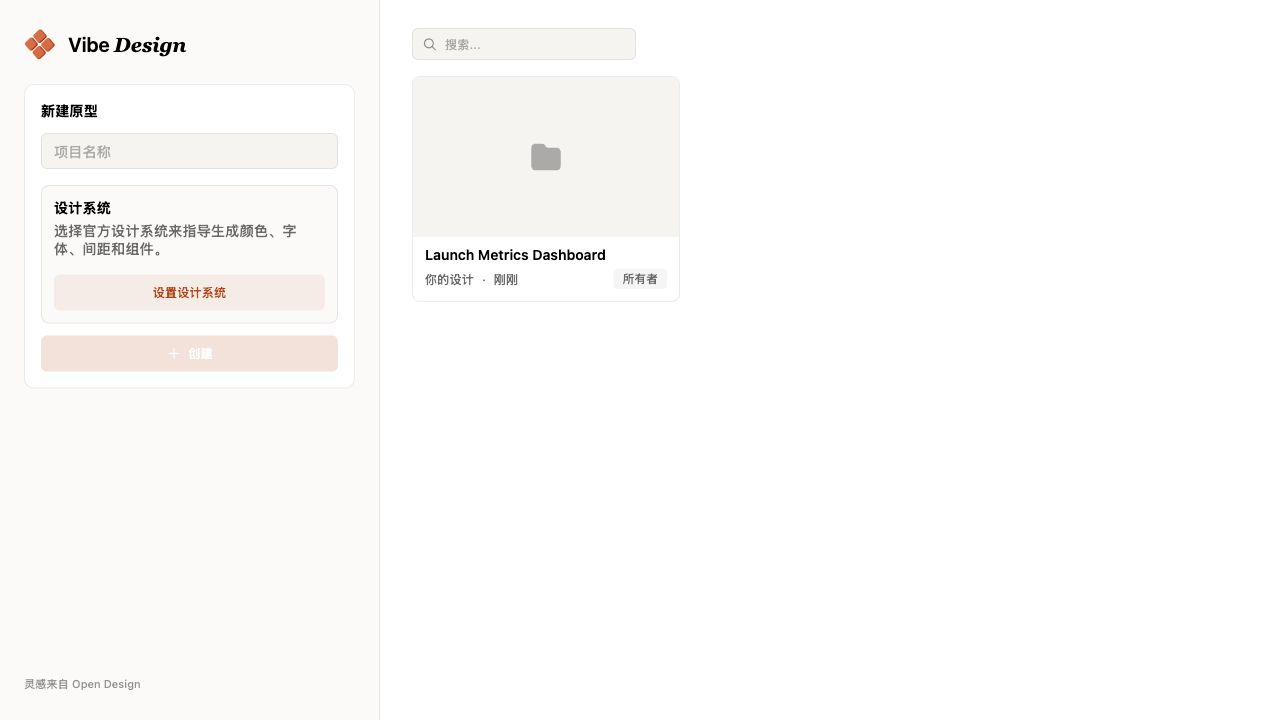
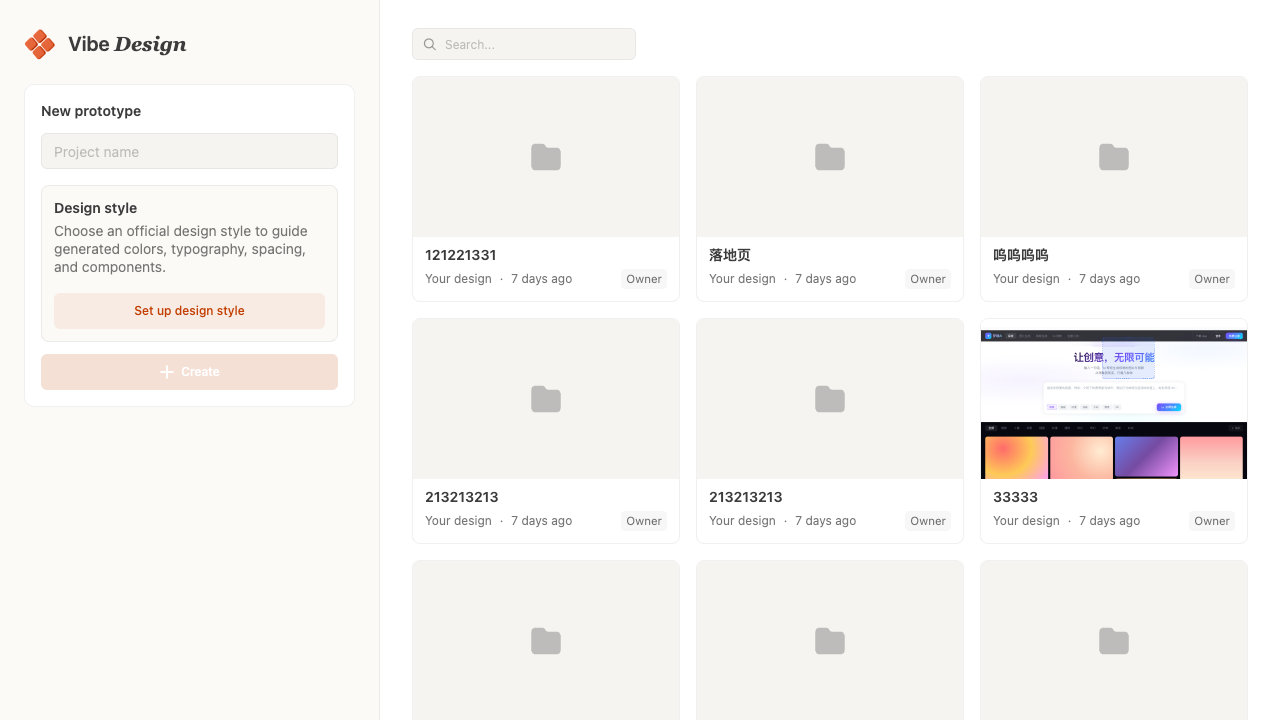
docs: rewrite README around features and refresh screenshots
Restructure EN and zh-CN READMEs with a benefit-led intro, "Why",
"Features", "How it works", and "For developers" sections; update
dashboard and project-editor screenshots.

diff --git a/README.md b/README.md
@@ -7,60 +7,83 @@
 
 ![Vibe Design dashboard](docs/screenshots/vibe-design-dashboard.png)
 
-Vibe Design is an AI-assisted design prototyping workspace for Tutti. It connects prompt-driven generation, design-system guidance, project file previews, canvas comments, and local agent execution so product, design, and engineering work can iterate around the same runnable prototype.
+> **Turn a prompt into a real, runnable prototype — then review, annotate, and refine it with AI in one workspace.**
 
-## Product Positioning
+Vibe Design is an AI-assisted design prototyping workspace. Start from a single prompt, ground the generation in a real design system, preview the live result on an interactive canvas, mark up exactly what needs to change, and send that visual feedback straight back to a local coding agent (Codex or Claude Code). Projects, conversations, files, and comments all persist — so a prototype keeps improving across many rounds instead of resetting every time.
 
-Vibe Design is built for teams that need to explore interface directions quickly, inspect generated output, and keep refining it. A user can start from one prompt, choose a design system, review generated files, point to issues directly on the canvas, and send that visual feedback back into Codex or Claude Code for follow-up work.
+## Why Vibe Design
 
-The goal is not a one-off page generator. It is a durable design workspace where projects, conversations, files, comments, and context stay available across multiple rounds of iteration.
+- **From prompt to runnable prototype** — Describe a screen and get real HTML and assets you can open and click, not a static mockup.
+- **Design-system-grounded output** — Pick an official design system and it becomes generation context, keeping color, typography, spacing, and component style on-brand.
+- **Review on the canvas, not in chat** — Pin comments to exact locations and attach screenshots, so feedback stays tied to a specific file and point.
+- **A closed visual feedback loop** — Send annotated feedback back to the agent and keep iterating in the same conversation.
+- **Runs on your local agents** — Uses your installed Codex / Claude Code, so edits happen in your own development environment.
+- **A durable workspace, not a one-shot generator** — Projects, conversations, files, and comments stay available across every round.
 
-## Core Capabilities
+## Features
 
-### Project Setup And Design Systems
+### 🎨 Projects & design systems
 
-The dashboard supports project creation, recent-project search, and official design-system selection. The selected design system becomes generation context before the agent runs, guiding color, typography, spacing, component style, and product tone.
+Create a project from the dashboard, search recent work, and choose an official design system. The selected system is injected as context before the agent runs, guiding color, typography, spacing, component style, and overall product tone.
 
-### Conversational AI Generation
+### 💬 Conversational AI generation
 
-The project editor includes a conversation workspace. Users can choose a local agent, switch model providers, reference project files, or attach visual comments so generation and edits keep the right context.
+The project editor is built around a conversation workspace. Choose a local agent, switch model providers, reference project files, and attach visual comments so every generation and edit keeps the right context.
 
-### Canvas Preview And File Workspace
+### 🖼 Canvas preview & file workspace
 
-Generated HTML, assets, and project files appear in the canvas workspace. Files open as tabs with preview, comment, and annotation modes; HTML prototypes render directly in the canvas so users can inspect the real layout.
+Generated HTML, assets, and project files land in the canvas workspace. Files open as tabs with preview, comment, and annotation modes, and HTML prototypes render directly on the canvas so you inspect the real layout — not a screenshot of one.
 
 ![Vibe Design project editor](docs/screenshots/vibe-design-project-editor.png)
 
-### Visual Review Loop
+### 📌 Visual review loop
 
-Users can place comments on exact preview locations and send screenshot attachments to the agent. Design feedback stays tied to a concrete file and canvas point instead of getting buried in plain chat history.
+Place comments on exact preview locations and send screenshot attachments to the agent. Design feedback stays bound to a concrete file and canvas point instead of getting lost in plain chat history.
 
-### Local Agent Runtime
+### 🤖 Local agent runtime
 
-The server detects local Codex and Claude Code installation, authentication, and availability, then reports problems in the UI. Available agents run through the local runtime, making the workflow suitable for editing project files inside the user's own development environment.
+The server detects local Codex and Claude Code installation, authentication, and availability, then surfaces any problems in the UI. Available agents run through the local runtime, so the workflow edits project files inside your own development environment.
 
-### Agent-Friendly CLI
+### ⌨️ Agent-friendly CLI
 
 The packaged app registers read-only `tutti vibe-design` commands. Other agents can inspect projects, conversations, messages, files, file contents, and preview comments without depending on private Web UI routes.
 
-## Typical Workflow
+## How it works
 
 1. Enter a project name and prompt on the dashboard.
 2. Select an official design system as generation guidance.
 3. Open the project editor and generate prototype files with Codex or Claude Code.
 4. Preview HTML files on the canvas and inspect hierarchy, layout, and content.
 5. Add comments or screenshot feedback to specific areas.
-6. Send feedback back to the agent, continue editing, and keep the conversation history.
+6. Send the feedback back to the agent, keep editing, and retain the full conversation history.
 
-## Use Cases
+## Who it's for
 
-- Explore interface directions for SaaS tools, operations dashboards, content tools, mobile apps, and similar products.
-- Bring design-system constraints into AI generation to reduce random, unstructured output.
-- Review and annotate generated prototypes directly on the canvas.
-- Let agents continue editing based on concrete files, screenshots, and comments.
-- Expose project context and file resources to other agents through a read-only CLI surface.
+- Teams exploring interface directions for SaaS tools, operations dashboards, content tools, mobile apps, and similar products.
+- Designers and PMs who want AI generation constrained by a real design system instead of random, unstructured output.
+- Anyone who needs to review and annotate generated prototypes directly on the canvas.
+- Workflows where an agent should continue editing based on concrete files, screenshots, and comments.
+- Other agents that need read-only access to project context and file resources through a CLI surface.
 
-## Repository Layout
+---
+
+## For developers
+
+### Quick start
+
+Requirements:
+
+- Node.js compatible with the repository's Node 24 build target.
+- pnpm 10.x.
+- Codex and/or Claude Code installed and authenticated for real local agent runs.
+
+```bash
+pnpm install        # install dependencies
+make dev            # start the dev server at http://127.0.0.1:3000/
+make dev PORT=3100  # override the port
+```
+
+### Repository layout
 
 ```text
 vibe-design/
@@ -75,39 +98,7 @@ vibe-design/
 
 The server consumes the web renderer through the workspace dependency `@vibe-design/web`.
 
-## Local Development
-
-Requirements:
-
-- Node.js compatible with the repository's Node 24 build target.
-- pnpm 10.x.
-- Codex and/or Claude Code installed and authenticated for real local agent runs.
-
-Install dependencies:
-
-```bash
-pnpm install
-```
-
-Start the development server:
-
-```bash
-make dev
-```
-
-Default URL:
-
-```text
-http://127.0.0.1:3000/
-```
-
-Override the port:
-
-```bash
-make dev PORT=3100
-```
-
-## Runtime Configuration
+### Runtime configuration
 
 | Variable | Purpose | Default |
 | --- | --- | --- |
@@ -119,7 +110,7 @@ make dev PORT=3100
 | `VIBE_USER_DESIGN_SYSTEMS_DIR` | User-editable design system root | `$TUTTI_APP_DATA_DIR/design-systems` |
 | `VIBE_BUILTIN_DESIGN_SYSTEMS_DIR` | Bundled design system root | `design-systems/` |
 
-## Scripts
+### Scripts
 
 ```bash
 pnpm build:web          # Build the web client and CSS
@@ -128,7 +119,7 @@ pnpm start              # Build web assets, then start the server
 pnpm test               # Run all workspace tests
 pnpm type-check         # Run TypeScript checks for server and web
 pnpm test:package       # Test the Tutti package builder
-pnpm package:tutti-app # Build the distributable Tutti app package
+pnpm package:tutti-app  # Build the distributable Tutti app package
 ```
 
 Package-scoped commands:
@@ -138,7 +129,7 @@ pnpm --filter @vibe-design/web test
 pnpm --filter @vibe-design/server type-check
 ```
 
-## Tutti CLI
+### Tutti CLI
 
 Vibe Design registers read-only CLI commands under the `vibe-design` scope. See `COMMANDS.md` for the full reference.
 
@@ -151,17 +142,13 @@ tutti --json vibe-design file-get --project-id <id> --name hero.html
 tutti --json vibe-design comments --project-id <id> --conversation-id <id>
 ```
 
-## Packaging
-
-Build the Tutti app package:
+### Packaging
 
 ```bash
 pnpm package:tutti-app
 ```
 
-The package is written to `dist/tutti-app/vibe-design` and validates the runtime entrypoint, manifests, server bundle, SQLite WASM, web assets, bundled skills, and design systems.
-
-Recommended checks before shipping:
+The package is written to `dist/tutti-app/vibe-design` and validates the runtime entrypoint, manifests, server bundle, SQLite WASM, web assets, bundled skills, and design systems. Recommended checks before shipping:
 
 ```bash
 pnpm test

diff --git a/README.zh-CN.md b/README.zh-CN.md
@@ -7,60 +7,83 @@
 
 ![Vibe Design dashboard](docs/screenshots/vibe-design-dashboard.png)
 
-Vibe Design 是一个运行在 Tutti workspace 里的 AI 设计原型工作台。它把自然语言生成、设计系统约束、项目文件预览、画布批注和本地 Agent 执行串在一起，让产品、设计和工程协作可以围绕同一个可运行原型持续迭代。
+> **一句话生成可运行的真实原型，再用 AI 在同一个工作台里审查、批注、持续打磨。**
 
-## 产品定位
+Vibe Design 是一个 AI 辅助的设计原型工作台。从一句需求开始，让生成结果落在真实的设计系统约束里，在交互式画布上预览实际效果，对需要改动的地方精确标注，再把视觉反馈直接交给本地编码 Agent（Codex 或 Claude Code）继续处理。项目、会话、文件和批注都会被保留——原型在多轮迭代中不断变好，而不是每次都从零开始。
 
-Vibe Design 面向需要快速探索界面方向、检查生成结果并持续精修的团队。用户可以从一句需求开始创建项目，选择合适的设计系统，查看生成文件，在画布中定位具体问题，再把视觉反馈交给本地 Codex 或 Claude Code 继续处理。
+## 为什么选择 Vibe Design
 
-核心目标不是做一个一次性生成页面的 demo，而是提供一个可持续工作的设计空间：项目、会话、文件、批注和上下文都会被保留下来，方便团队多轮调整。
+- **从需求到可运行原型** —— 描述一个界面，得到能打开、能点击的真实 HTML 和资源，而不是静态稿。
+- **生成结果带设计系统约束** —— 选定官方设计系统后，它会成为生成上下文，让颜色、字体、间距、组件风格保持统一。
+- **在画布上审查，而非在聊天里** —— 把评论钉在精确位置并附上截图，反馈始终绑定到具体文件和位置。
+- **完整的视觉反馈闭环** —— 把带批注的反馈发回 Agent，在同一会话里持续迭代。
+- **跑在你的本地 Agent 上** —— 使用你已安装的 Codex / Claude Code，改动发生在你自己的开发环境里。
+- **是可持续的工作台，而非一次性生成器** —— 项目、会话、文件和批注在每一轮都保留。
 
-## 核心功能
+## 功能特性
 
-### 项目创建与设计系统选择
+### 🎨 项目与设计系统
 
-首页提供项目创建、最近项目检索和官方设计系统选择。设计系统会在生成前成为上下文的一部分，用来约束颜色、字体、间距、组件风格和产品语气。
+在首页创建项目、检索最近工作、选择官方设计系统。选定的设计系统会在 Agent 运行前注入为上下文，用来约束颜色、字体、间距、组件风格和整体产品语气。
 
-### AI 会话式生成
+### 💬 AI 会话式生成
 
-项目编辑器左侧是会话工作区。用户可以选择本地 Agent、切换模型提供方、引用项目文件或附加视觉评论，让生成和修改过程保留完整上下文。
+项目编辑器围绕会话工作区构建。你可以选择本地 Agent、切换模型提供方、引用项目文件、附加视觉评论，让每一次生成和修改都保留正确的上下文。
 
-### 画布预览与文件工作区
+### 🖼 画布预览与文件工作区
 
-生成的 HTML、资源和项目文件会进入右侧画布工作区。文件以标签页形式打开，支持预览、评论和标注模式；HTML 原型会直接在画布中渲染，方便检查真实布局。
+生成的 HTML、资源和项目文件会进入画布工作区。文件以标签页打开，支持预览、评论和标注模式；HTML 原型直接在画布中渲染，让你检查真实布局，而不是它的截图。
 
 ![Vibe Design project editor](docs/screenshots/vibe-design-project-editor.png)
 
-### 视觉批注闭环
+### 📌 视觉批注闭环
 
-用户可以在预览中针对具体位置添加评论，并把截图附件一起发送给 Agent。这样设计反馈不会散落在纯文本聊天里，而是绑定到具体文件和画布位置。
+在预览中针对具体位置添加评论，并把截图附件一起发送给 Agent。设计反馈会绑定到具体文件和画布位置，而不会淹没在纯文本聊天记录里。
 
-### 本地 Agent 运行时
+### 🤖 本地 Agent 运行时
 
-服务端会检测本地 Codex 和 Claude Code 的安装、认证和可用状态，并在 UI 中展示问题。可用的 Agent 会通过本地 runtime 启动，适合在用户自己的开发环境里处理项目文件。
+服务端会检测本地 Codex 和 Claude Code 的安装、认证和可用状态，并在 UI 中提示问题。可用的 Agent 通过本地 runtime 启动，让整个流程在你自己的开发环境里处理项目文件。
 
-### Agent 友好的 CLI
+### ⌨️ Agent 友好的 CLI
 
 打包后的应用会注册 `tutti vibe-design` 只读命令。其他 Agent 可以通过 CLI 查看项目、会话、消息、文件、文件内容和预览评论，而不需要依赖内部 Web UI 路由。
 
-## 典型工作流
+## 工作流程
 
 1. 在首页输入项目名称和需求描述。
 2. 选择一个官方设计系统作为生成约束。
 3. 进入项目编辑器，使用 Codex 或 Claude Code 生成原型文件。
 4. 在画布中打开 HTML 预览，检查视觉层级、布局和内容。
 5. 对具体区域添加批注或截图反馈。
-6. 把反馈发送回 Agent，继续修改并保留会话历史。
+6. 把反馈发送回 Agent，继续修改并保留完整会话历史。
 
-## 适用场景
+## 适用人群
 
-- 快速探索 SaaS、运营后台、内容工具、移动应用等界面方向。
-- 把设计系统约束带入 AI 生成流程，减少无风格约束的随机输出。
-- 在生成原型上直接做视觉审查和批注。
-- 让 Agent 根据具体文件、截图和评论继续修改项目。
-- 为其他 Agent 提供可读的项目上下文和文件资源。
+- 需要快速探索 SaaS、运营后台、内容工具、移动应用等界面方向的团队。
+- 希望 AI 生成受真实设计系统约束、而非随机无风格输出的设计师和产品经理。
+- 需要在生成原型上直接做视觉审查和批注的人。
+- 希望 Agent 根据具体文件、截图和评论继续修改项目的工作流。
+- 需要通过 CLI 只读访问项目上下文和文件资源的其他 Agent。
 
-## 项目结构
+---
+
+## 面向开发者
+
+### 快速开始
+
+依赖要求：
+
+- 与仓库 Node 24 构建目标兼容的 Node.js。
+- pnpm 10.x。
+- 已安装并完成认证的 Codex 或 Claude Code，用于真实本地 Agent 运行。
+
+```bash
+pnpm install        # 安装依赖
+make dev            # 启动开发服务，地址 http://127.0.0.1:3000/
+make dev PORT=3100  # 指定端口
+```
+
+### 项目结构
 
 ```text
 vibe-design/
@@ -75,39 +98,7 @@ vibe-design/
 
 `server` 通过 workspace 依赖 `@vibe-design/web` 使用前端渲染包。
 
-## 本地开发
-
-依赖要求：
-
-- 与仓库 Node 24 构建目标兼容的 Node.js。
-- pnpm 10.x。
-- 已安装并完成认证的 Codex 或 Claude Code，用于真实本地 Agent 运行。
-
-安装依赖：
-
-```bash
-pnpm install
-```
-
-启动开发服务：
-
-```bash
-make dev
-```
-
-默认地址：
-
-```text
-http://127.0.0.1:3000/
-```
-
-指定端口：
-
-```bash
-make dev PORT=3100
-```
-
-## 运行时配置
+### 运行时配置
 
 | 变量 | 用途 | 默认值 |
 | --- | --- | --- |
@@ -119,7 +110,7 @@ make dev PORT=3100
 | `VIBE_USER_DESIGN_SYSTEMS_DIR` | 用户可编辑的设计系统根目录 | `$TUTTI_APP_DATA_DIR/design-systems` |
 | `VIBE_BUILTIN_DESIGN_SYSTEMS_DIR` | 内置设计系统根目录 | `design-systems/` |
 
-## 常用命令
+### 常用命令
 
 ```bash
 pnpm build:web          # 构建 Web 客户端和 CSS
@@ -128,7 +119,7 @@ pnpm start              # 构建 Web 产物后启动服务
 pnpm test               # 运行全部 workspace 测试
 pnpm type-check         # 运行 server 和 web 的 TypeScript 检查
 pnpm test:package       # 测试 Tutti 应用包构建器
-pnpm package:tutti-app # 构建可分发的 Tutti 应用包
+pnpm package:tutti-app  # 构建可分发的 Tutti 应用包
 ```
 
 包级命令：
@@ -138,7 +129,7 @@ pnpm --filter @vibe-design/web test
 pnpm --filter @vibe-design/server type-check
 ```
 
-## Tutti CLI
+### Tutti CLI
 
 Vibe Design 在 `vibe-design` scope 下注册只读 CLI。完整说明见 `COMMANDS.md`。
 
@@ -151,17 +142,13 @@ tutti --json vibe-design file-get --project-id <id> --name hero.html
 tutti --json vibe-design comments --project-id <id> --conversation-id <id>
 ```
 
-## 打包
-
-构建 Tutti 应用包：
+### 打包
 
 ```bash
 pnpm package:tutti-app
 ```
 
-打包结果会写入 `dist/tutti-app/vibe-design`，并校验运行时入口、manifest、server bundle、SQLite WASM、前端产物、内置 skills 和 design systems。
-
-发布前建议运行：
+打包结果会写入 `dist/tutti-app/vibe-design`，并校验运行时入口、manifest、server bundle、SQLite WASM、前端产物、内置 skills 和 design systems。发布前建议运行：
 
 ```bash
 pnpm test